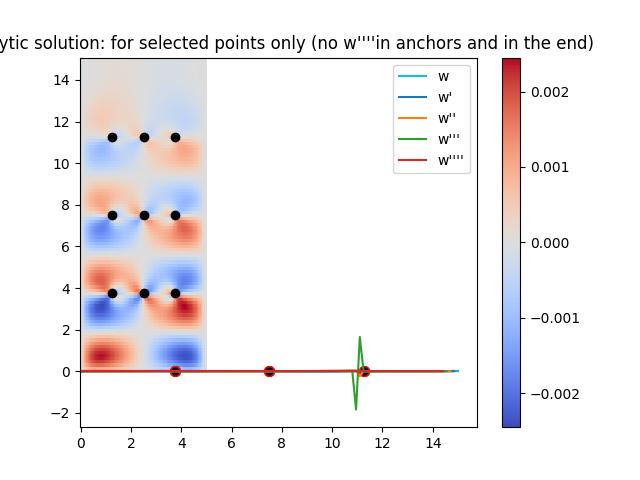
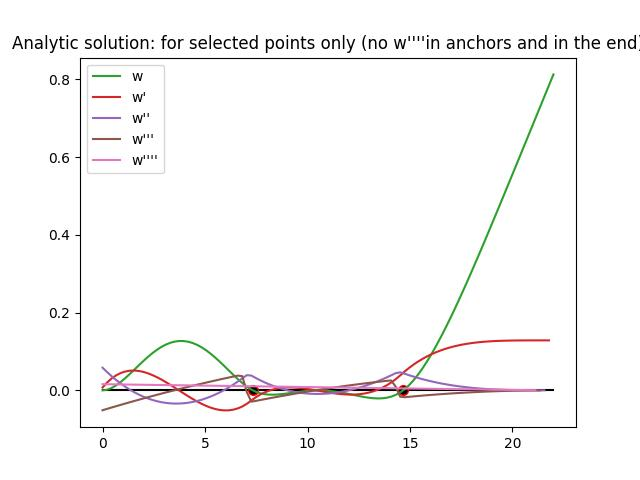
fix bug the plot in 1d

diff --git a/ground_anchoring_controller/api/euller_beam.py b/ground_anchoring_controller/api/euller_beam.py
@@ -962,6 +962,9 @@ class clWall():
 				if b:
 					fig.colorbar(pc, ax=ax)
 				fig.savefig(sTitle+'.jpg')
+				
+			plt.close()
+			plt.clf()
 
 class clMyMath():
 	# נוסחה לנגזרת: 
@@ -1061,7 +1064,8 @@ class clMyMath():
 		#print(str(locals()))
 		#print(str(vx))
 		n=len(vx)
-		plt.close()
+		plt.close('all')
+
 		plt.title(sTitle)
 		
 		#drew axis x
@@ -1168,76 +1172,7 @@ class clMyMath():
 				vcf.append(cf)
 			vvcf.append(vcf)
 		return vvcf
-	def test1(self):
-		vx=[0]
-		n=100
-		xMax=1
-		kMax=4
-		dx=float(1)/n
-		for ix in range(n):
-			vx.append(xMax*dx*(ix+1))
-		x_data = np.array(vx)
-		
-		vvy=[]
-		vy_data=[]
-		for k in range(kMax+1):
-			vy=[]
-			for x in vx:
-				vy.append(x**k)
-			vvy.append(vy)
-			y_data = np.array(vy)
-			vy_data.append(y_data)
-		#for k in range(kMax+1):
-		#	plt.plot(x_data,vy_data[k], label = "y"+str(k))
-
-		dx=float(1)/n
-		vvy_data=[]
-		for k1 in range(kMax+1):
-			vy_data=[]
-			for k in range(kMax+1):
-				vy=vvy[k]
-				#print("vy="+str(vy))
-				MyMath.y_start(vx,vy)
-				vyk=[]
-				for x in vx[:len(vx)-k1]:
-					yk=MyMath.fk(x,MyMath.y_get,dx,k1)
-					vyk.append(yk)
-				#print("vyk="+str(vyk))
-				y_data = np.array(vyk)
-				x_data=np.array(vx[:len(vx)-k1])
-				if k==kMax:
-					plt.plot(x_data,y_data, label = "y"+str(k)+str(k1))
-					print("vyk="+str(vyk))
-				vy_data.append(y_data)
-			vvy_data.append(vy_data)
-		
-		plt.legend()
-		#plt.show()
-		
-			#x1_data,y1_data,x4_data,y4_data=
-		
-		#plt.plot(x_data,y_data, label = "w")
-		#plt.plot(x_data,y2_data, label = "w''")
-		#plt.plot([0,h],[0,0], label = "x")
-		#lines:
-		#https://www.w3schools.com/python/matplotlib_line.asp
-		#points:
-		#plt.plot(xpoints, ypoints, 'o')
-		#line with markers
-		#https://www.w3schools.com/python/matplotlib_markers.asp
-		#plt.plot(ypoints, marker = 'o')
-		#plt.plot(ypoints, marker = '*')
-		
-		
-		#plt.plot(x1_data,y1_data, label = "w'")
-		#plt.plot(x4_data,y4_data, label = "w''''")
-
-		#x_data,y_data=BeamDef.vw_make()
-		#plt.plot(x_data,y_data, label = "wDiff")
-
-		#plt.legend()
-		#plt.show()
-		pass
+	
 	def ixGeneral_get(self,x,xMin,xMax,n):
 		if x<=xMin:
 			return xMin
